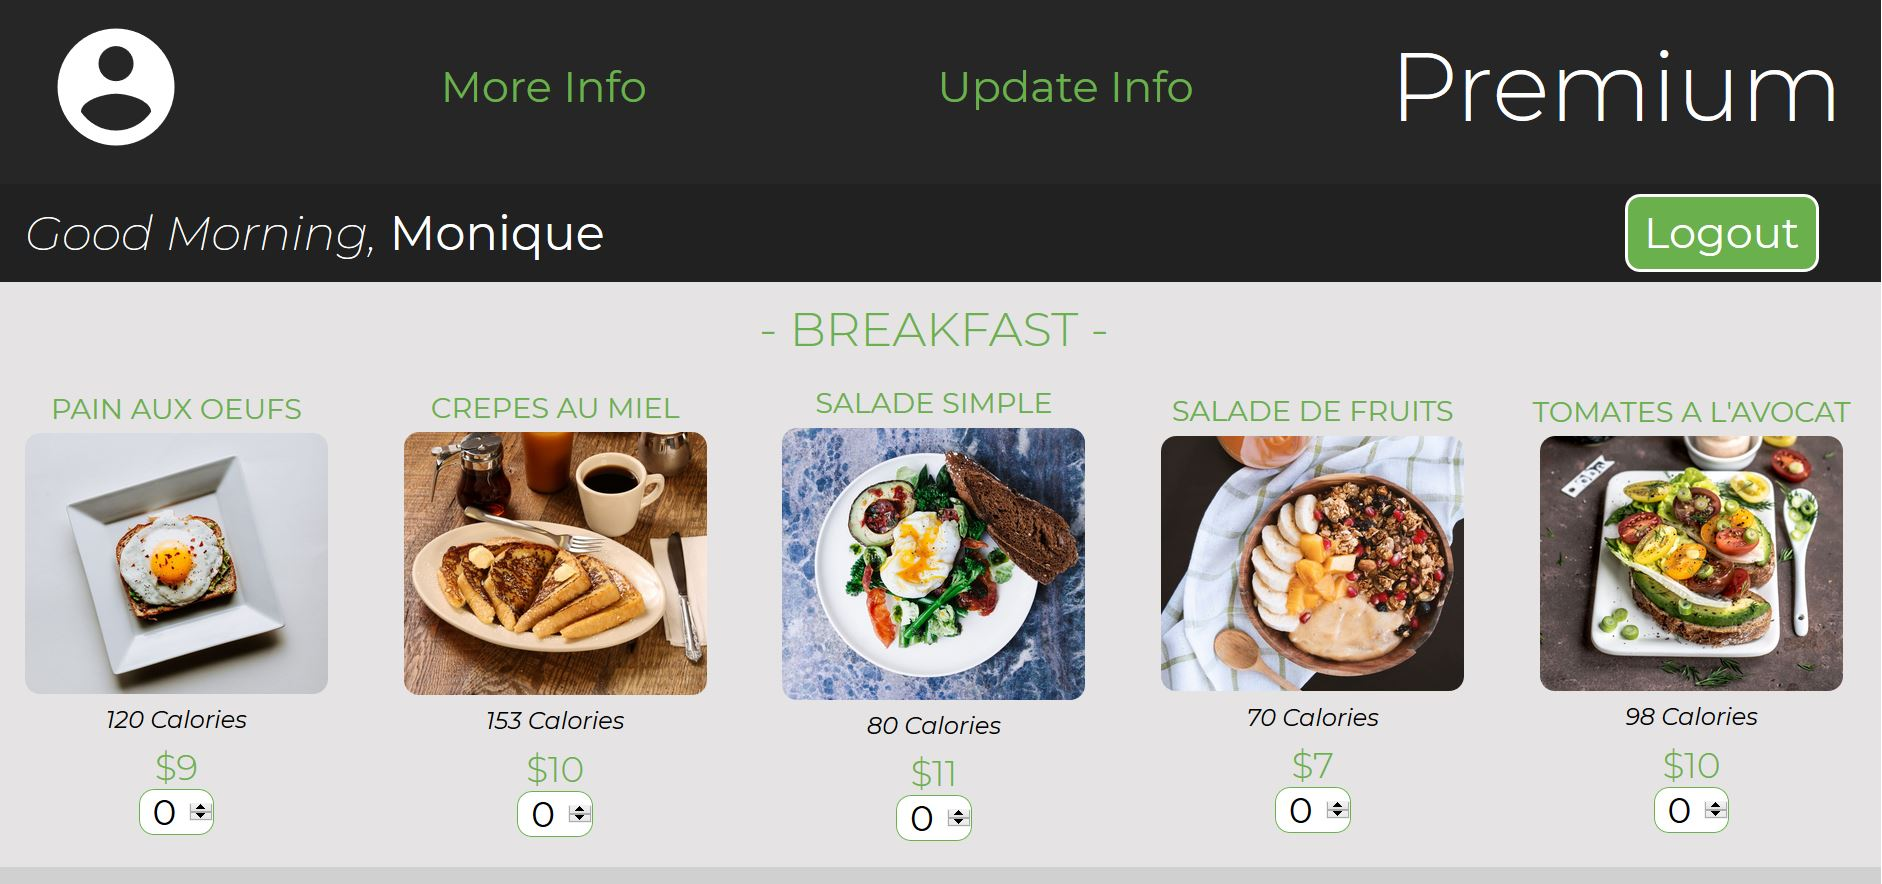
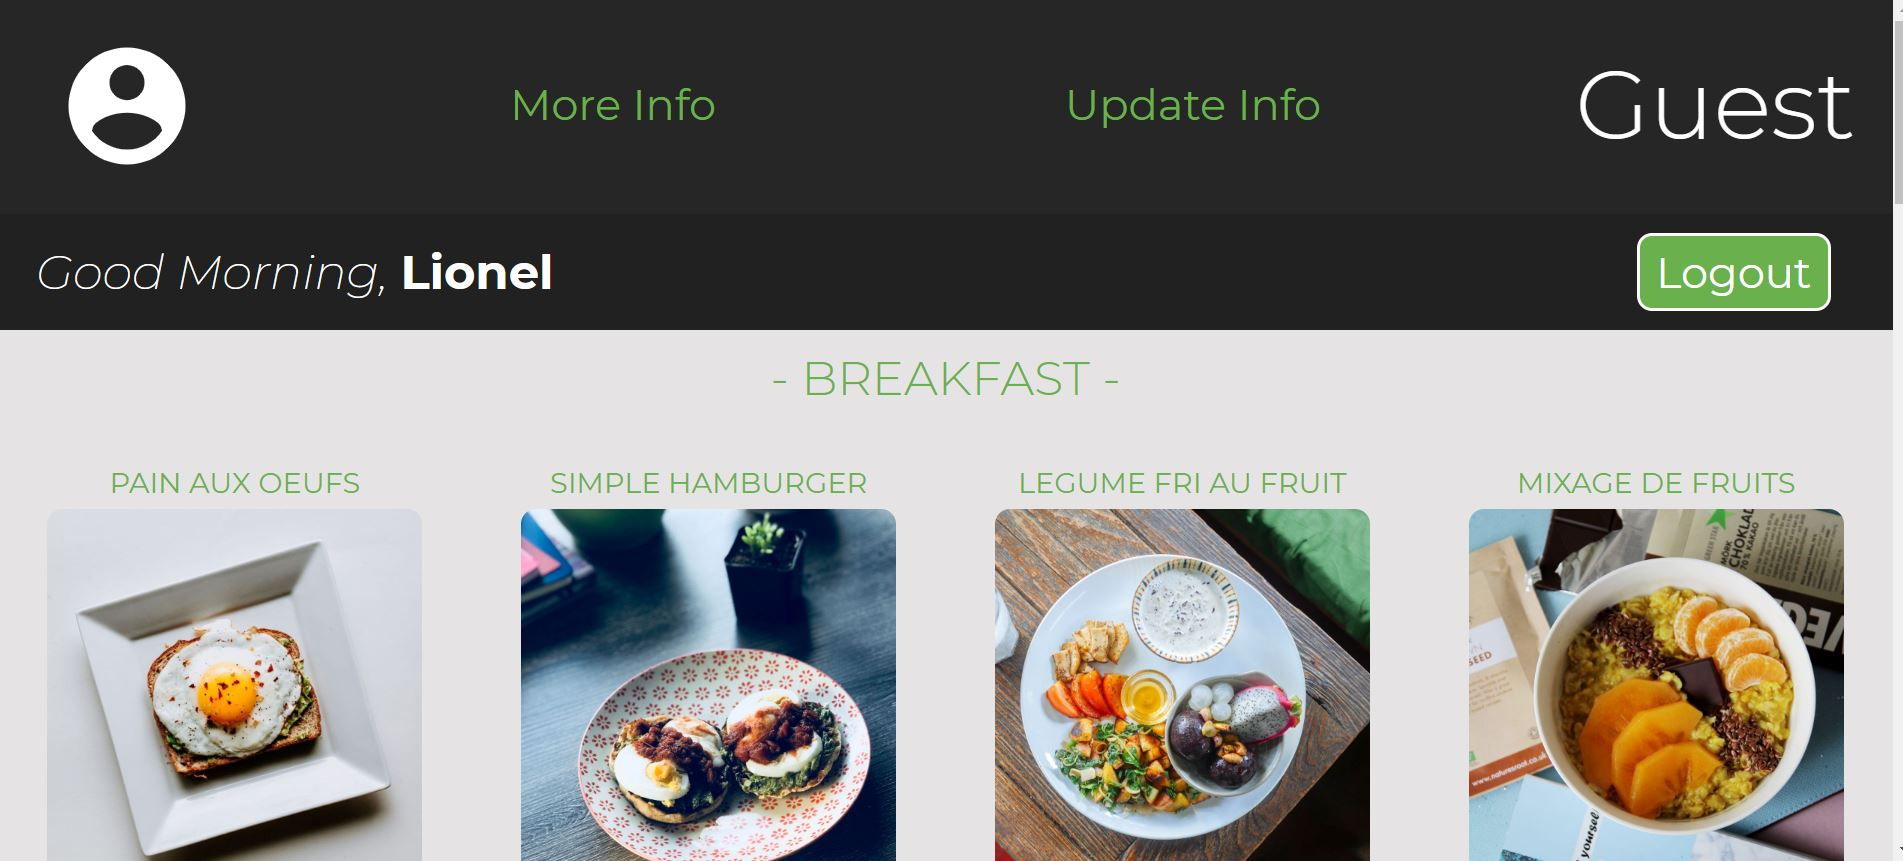
Update

diff --git a/restaurant-management-system/src/main/resources/templates/customerPage.html b/restaurant-management-system/src/main/resources/templates/customerPage.html
@@ -24,9 +24,9 @@
         <div class="breakfast" >
             <h2> - Breakfast -</h2>
             <div class="menu">
-            	<div class="food" th:each="menu : ${menus}" th:if="${menu.type == 'Breakfast'}">
+            	<div class="meal" th:each="menu : ${menus}" th:if="${menu.type == 'Breakfast'}">
                     <h3 th:text="${menu.name}"></h3>
-                    <img th:src="@{__${menu.imgLocation}__}" alt="Breakfast">
+                    <img th:src="@{__${menu.imgLocation}__}" th:alt="${menu.name}">
                     <i><span th:text="${menu.calories}"></span> Calories</i>
                     <h4>$<span th:text="${menu.price}"></span></h4>
                     <input type="number" th:name="${menu.id}" value="0" min="0">
@@ -37,9 +37,9 @@
         <div class="dinner">
             <h2> - Dinner -</h2>
             <div class="menu">
-	            <div class="food" th:each="menu : ${menus}" th:unless="${menu.type == 'Breakfast'}">
+	            <div class="meal" th:each="menu : ${menus}" th:unless="${menu.type == 'Breakfast'}">
                     <h3 th:text="${menu.name}"></h3>
-                    <img th:src="@{__${menu.imgLocation}__}" alt="Breakfast">
+                    <img th:src="@{__${menu.imgLocation}__}" th:alt="${menu.name}">
                     <i><span th:text="${menu.calories}"></span> Calories</i>
                     <h4>$<span th:text="${menu.price}"></span></h4>
                     <input type="number" th:name="${menu.id}" value="0" min="0">

diff --git a/restaurant-management-system/src/main/resources/static/css/customerPage.css b/restaurant-management-system/src/main/resources/static/css/customerPage.css
@@ -20,6 +20,7 @@ h2 {
 
 h3 {
     color: #6ab04c;
+    text-align: center;
     text-transform: uppercase;
     margin: 2% auto;
     font-weight: 400;
@@ -125,22 +126,22 @@ nav a:nth-child(3):hover {
     align-items: center;
 }
 
-.food {
+.meal {
 	margin: 20px auto;
 	display: flex;
-    flex: 0 0 20%;
+    flex: 0 0 24%;
     flex-direction: column;
     justify-content: space-between;
     align-items:center;
 }
 
-.food img {
-    width: 200px;
-    height: auto;
+.meal img {
+    width: 250px;
+    height: 250px;
     border-radius: 10px;
 }
 
-.food i {
+.meal i {
     margin: 3% auto;
 }
 

diff --git a/restaurant-management-system/src/main/resources/static/css/processOrder.css b/restaurant-management-system/src/main/resources/static/css/processOrder.css
@@ -37,11 +37,11 @@ nav  span {
     font-size: 300%;
 }
 
-nav a {
+#userImg {
     text-decoration: none;
     color: white;
-    font-size: 500%;
-    margin: 2% 0 2% 15%;
+    font-size: 600%;
+    margin: 1% 0 1% 1%;
 }
 
 nav {
@@ -115,7 +115,7 @@ nav {
 }
 
 hr {
-    width: 65%;
+    width: 50%;
     margin: auto;
     border: 1px solid black;
 }

diff --git a/restaurant-management-system/src/main/resources/templates/processOrder.html b/restaurant-management-system/src/main/resources/templates/processOrder.html
@@ -11,8 +11,8 @@
 </head>
 <body>
 	<nav>
-		<a href="#" id="userImg"><ion-icon name="contact"></ion-icon></a> <span
-			th:text="${user.access}"></span>
+		<a href="#" id="userImg"><ion-icon name="contact"></ion-icon></a> 
+		<span th:text="${user.access}"></span>
 	</nav>
 
 	<div class="thankCustomer">
